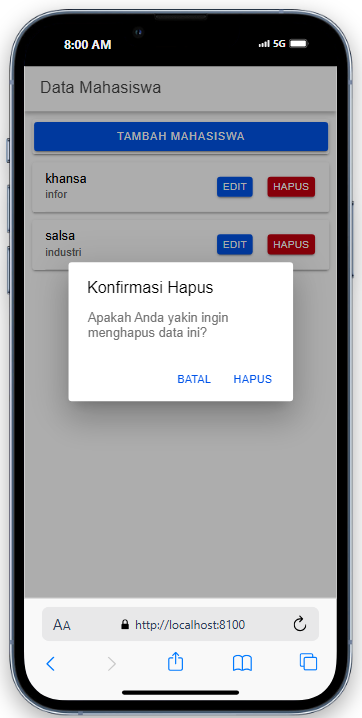
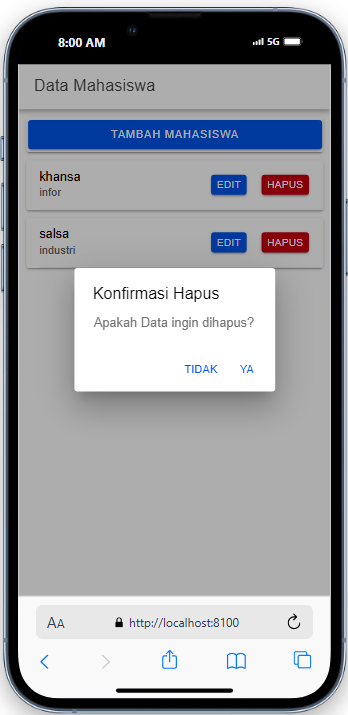
tiga commit

Changed region(s): [[0.0, 0.0, 1.0, 1.0], [0.1149, 0.3077, 0.8908, 0.5846], [0.1437, 0.8615, 0.2011, 0.8923]]

diff --git a/src/app/mahasiswa/mahasiswa.page.ts b/src/app/mahasiswa/mahasiswa.page.ts
@@ -87,10 +87,10 @@ export class MahasiswaPage implements OnInit {
   async showDeleteConfirm(id: any) {
     const alert = await this.alertController.create({
       header: 'Konfirmasi Hapus',
-      message: 'Apakah Anda yakin ingin menghapus data ini?',
+      message: 'Apakah Data ingin dihapus?',
       buttons: [
         {
-          text: 'Batal',
+          text: 'Tidak',
           role: 'cancel',
           cssClass: 'secondary',
           handler: () => {
@@ -98,7 +98,7 @@ export class MahasiswaPage implements OnInit {
           },
         },
         {
-          text: 'Hapus',
+          text: 'Ya',
           handler: () => {
             this.hapusMahasiswa(id);
           },

diff --git a/README.md b/README.md
@@ -58,7 +58,8 @@ Aplikasi ini merupakan implementasi CRUD (Create, Read, Update, Delete) untuk me
 
 - Pengguna dapat menghapus data mahasiswa dengan mengklik tombol "Hapus" di samping data mahasiswa.
 - Sebelum penghapusan dilakukan, aplikasi akan menampilkan dialog konfirmasi untuk memastikan tindakan ini.
-- Jika pengguna menekan tombol "Hapus" pada dialog konfirmasi, data mahasiswa akan dihapus dan tidak lagi muncul di daftar mahasiswa.
+- Jika pengguna menekan tombol "Ya" pada dialog konfirmasi, data mahasiswa akan dihapus dan tidak lagi muncul di daftar mahasiswa.
+- Jika pengguna menekan tombol "Tidak" pada dialog konfirmasi, maka akan dikembalikan ke halaman daftar mahasiswa.
 
 ---
 
